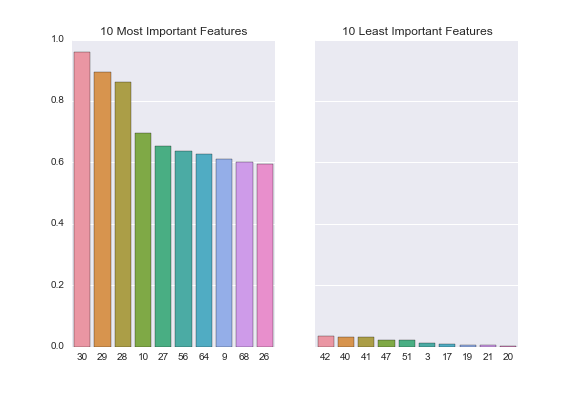
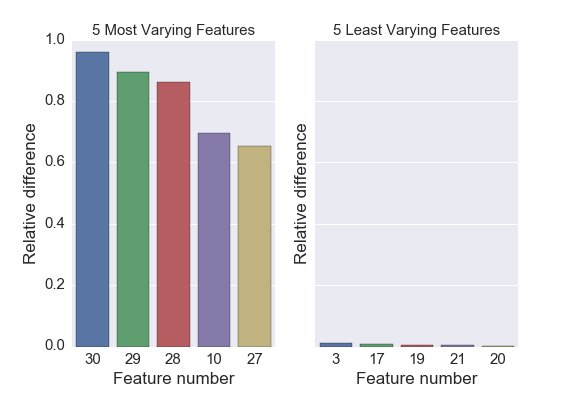
Added Feature Importance Script

diff --git a/FeatureImportance.py b/FeatureImportance.py
@@ -1,0 +1,72 @@
+# -*- coding: utf-8 -*-
+"""
+Created on Wed Mar 29 21:50:13 2017
+
+@author: Chris
+"""
+import pandas as pd
+import numpy as np
+import Utils as f
+import matplotlib.pyplot as plt
+import seaborn as sns
+import matplotlib
+
+matplotlib.rcParams['xtick.labelsize'] = 15
+matplotlib.rcParams['ytick.labelsize'] = 15
+matplotlib.rcParams['axes.titlesize'] = 15
+matplotlib.rcParams['font.size'] = 15
+matplotlib.rcParams['axes.labelsize'] = 17
+
+print('Attempting to load pre-processed data...')
+try:
+    #load pre-processed training data
+    X_train = f.load_obj('input_clean/X_train')
+    X_test = f.load_obj('input_clean/X_test')
+    Y_train = f.load_obj('input_clean/Y_train')
+    print('Pre-processed data successfully loaded...')
+except:
+    print('Pre-processed data failed to load, ensure the working directory is correct...')
+
+#%%
+
+#split the data by relevance value and view the difference in means for each feature
+#retrieve feature importance scores, calculated by 
+scores = []
+for col in X_train.columns:
+    less_rel_score = X_train.loc[Y_train['relevance']<2.0][col].describe()['mean']
+    more_rel_score = X_train.loc[Y_train['relevance']>=2.0][col].describe()['mean']
+    print('Feature: {} \n Mean for relevance >= 2.0: {} \n Mean for relevance < 2.0 {}'.format(col,
+          more_rel_score,
+          less_rel_score))
+    scores.append(abs(more_rel_score - less_rel_score)/min(less_rel_score,more_rel_score))
+
+#%%
+
+#number the attributes from 1 to 68, store these as k,v pairs
+feature_importance_scores = [(i+1,scores[i]) for i in range(len(scores))]
+#sort the attributes by importance, descending
+sorted_feats = sorted(feature_importance_scores, key = lambda x:x[1], reverse=True)
+#retrieves sorted keys and values
+sorted_keys = [feat[0] for feat in sorted_feats]
+sorted_vals = [feat[1] for feat in sorted_feats]
+sorted_names = [X_train.columns[i-1] for i in sorted_keys]
+
+#number of top/bottom features to retrive
+num_feats = 5
+#create figure for plot
+fig, (ax1, ax2) = plt.subplots(1,2,sharey=True)
+#plot 10 most important features
+sns.barplot(x = sorted_keys[:num_feats],y = sorted_vals[:num_feats], order = sorted_keys[:num_feats], ax=ax1)
+#plot 10 least important features
+sns.barplot(x = sorted_keys[-num_feats:],y = sorted_vals[-num_feats:], order = sorted_keys[-num_feats:], ax=ax2)
+ax1.set_title(str(num_feats)+' Most Varying Features')
+ax1.set_xlabel('Feature number')
+ax1.set_ylabel('Relative difference')
+ax2.set_xlabel('Feature number')
+ax2.set_ylabel('Relative difference')
+ax2.set_title(str(num_feats)+' Least Varying Features')
+
+fig.savefig('output/FeatureImportance_UsingRelativeDifference')
+
+feature_importance = pd.DataFrame({'Feature':sorted_names,'% Importance':sorted_vals})
+feature_importance.to_csv('output/FeatureImportance_UsingRelativeDifference.csv')
